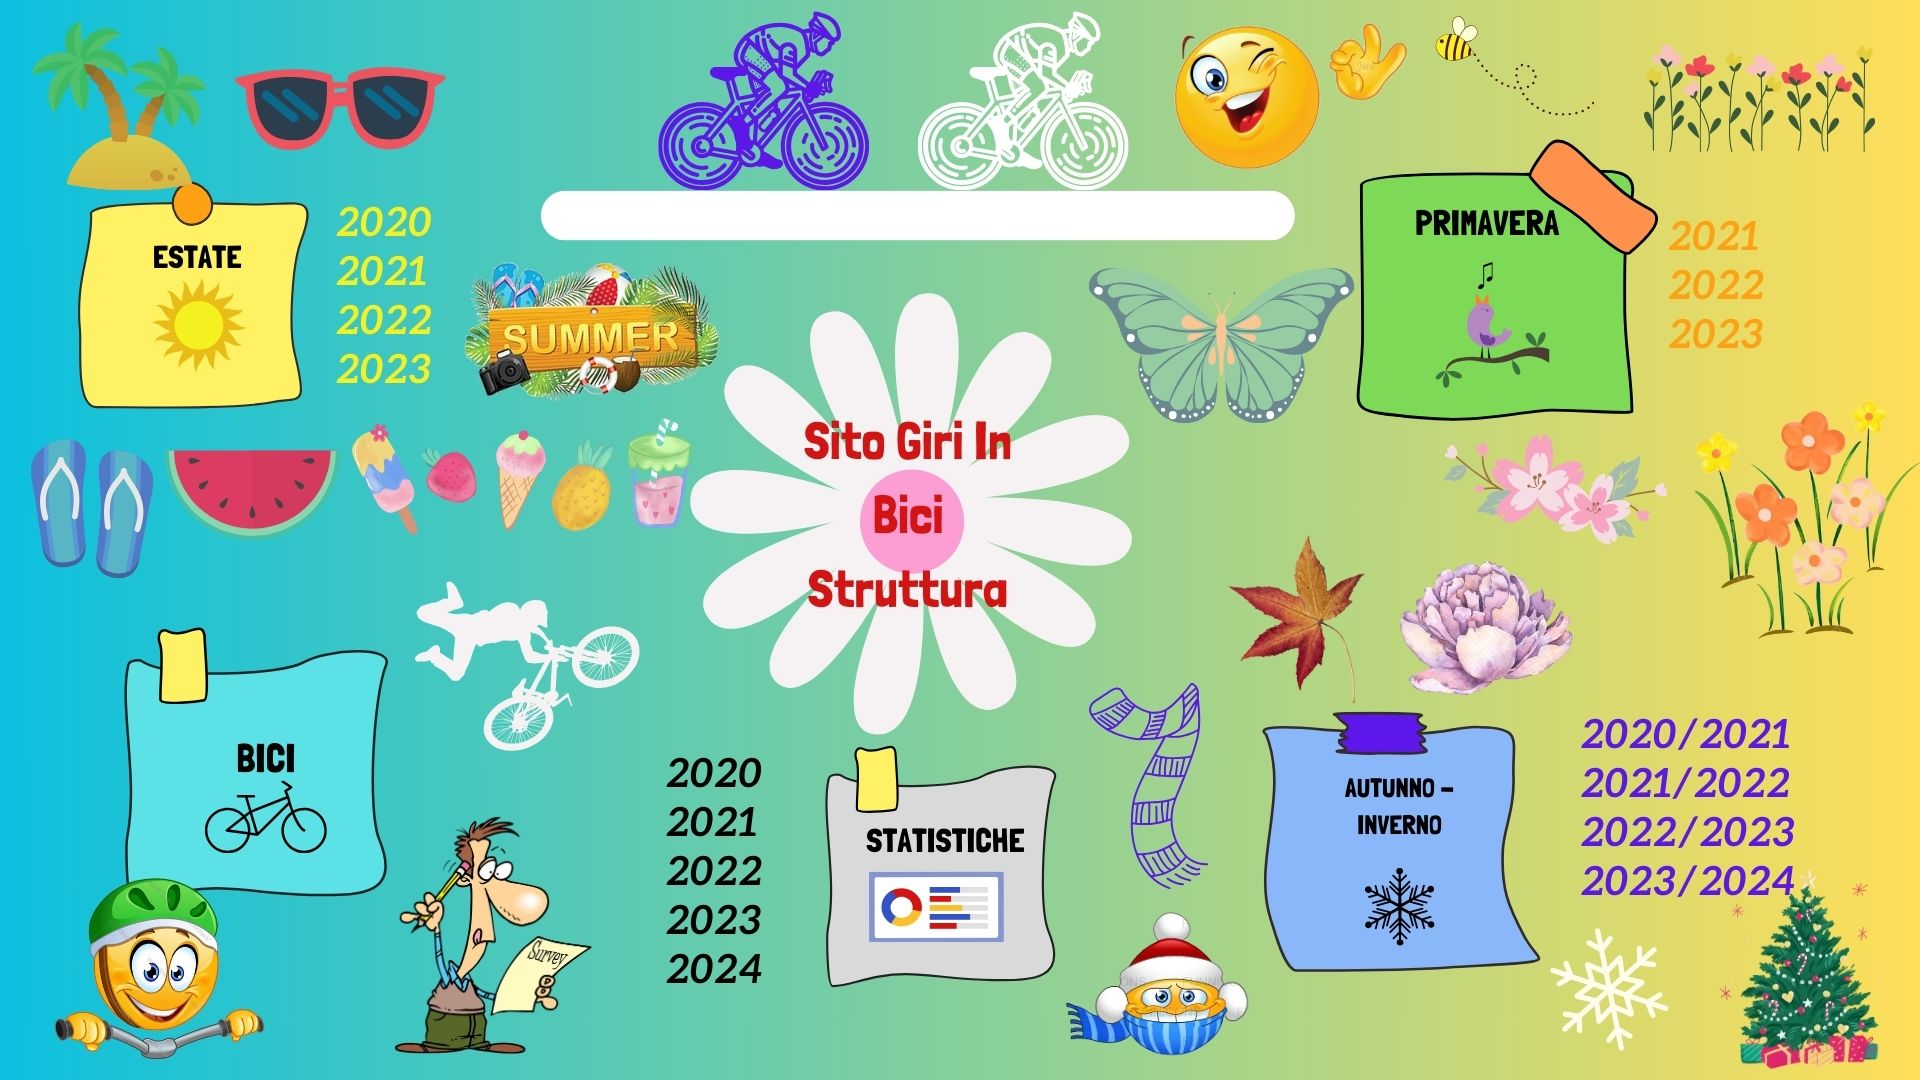
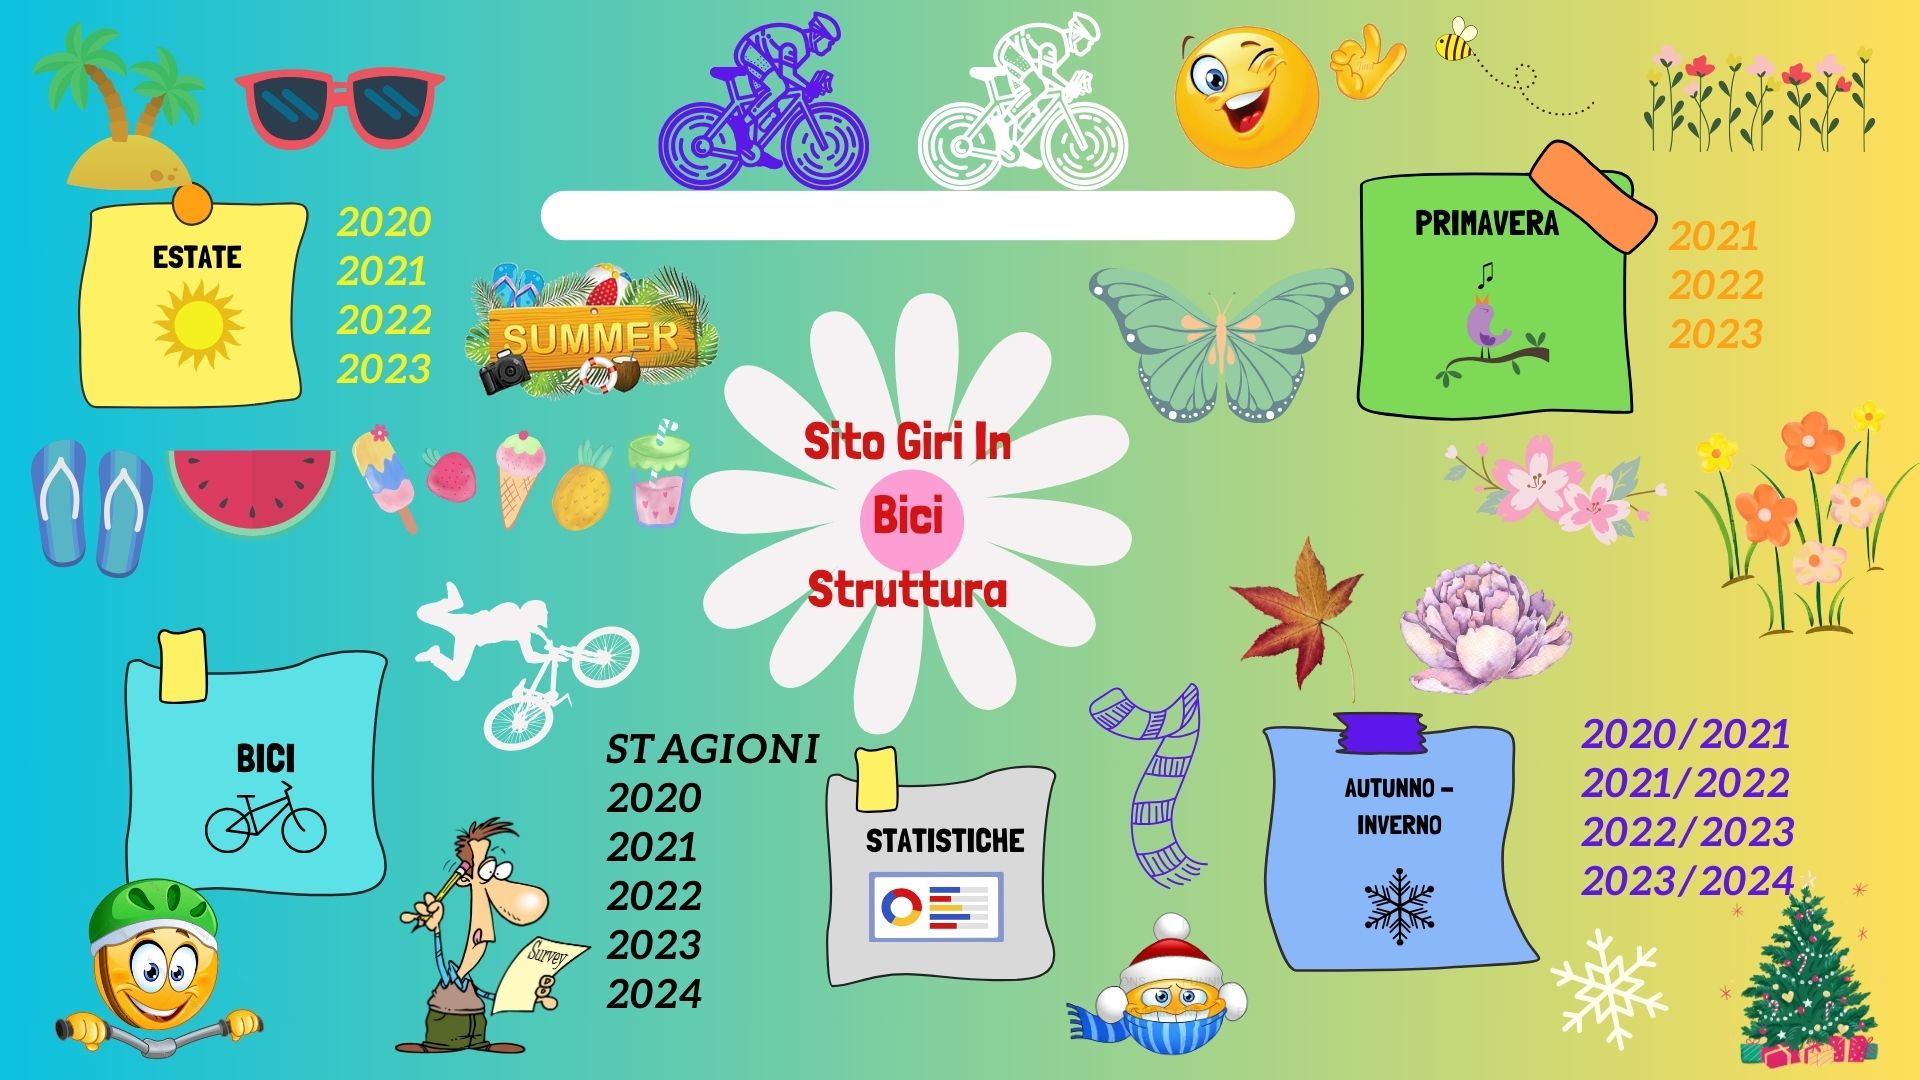
Aggiunta grafico stagioni e media per le stagioni

Changed region(s): [[0.3125, 0.6722, 0.4375, 0.9472]]

diff --git a/Statistiche/Js/stagioni.js b/Statistiche/Js/stagioni.js
@@ -1,0 +1,89 @@
+let e = 6471, p = 2206 , ai = 3798;
+let totale = e + p + ai;
+
+let avge = (e/totale) * 100;
+let avgp = (p/totale) * 100;
+let avgai = (ai/totale) * 100;
+
+let dati = {
+    labels: ['Estate','Autunno-Inverno','Primavera'],
+    datasets: [{
+        label: 'km totali stagione',
+        backgroundColor: [
+            'red',
+            'lightblue',
+            'lightgreen'
+        ],
+        borderColor: [
+            'rgba(255, 99, 132, 1)',
+            'rgba(54, 162, 235, 1)',
+            'rgba(255, 206, 86, 1)'
+        ],
+        borderWidth: 1,
+        data: [e,p,ai]  // Aggiunto un valore per il 2024, correggi se necessario
+    }]
+};
+
+// Configurazione del grafico
+let config = {
+    type: 'doughnut',
+    data: dati,
+    options: {
+        scales: {
+            y: {
+                beginAtZero: true
+            }
+        }
+    }
+};
+
+// Ottenere il contesto del canvas e creare il grafico
+let ctx = document.getElementById('doughnut-chart').getContext('2d');
+new Chart(ctx, config);
+
+let stampa = `
+
+<div class="estate">
+    <img class="immaginestagionesx" src="../Icone/estate.png">
+    <p class="contornostagione">
+        Estate
+    </p>
+
+    <p>km totali 
+        ${e} <img src="../Icone/traguardo.png">
+    </p>
+
+    <p> ${avge} % </p>
+</div>
+
+<div class="primavera">
+    <img class="immaginestagionesx" src="../Icone/primavera.png">
+    <p class="contornostagione">
+        Primavera
+    </p>
+
+    <p>km totali 
+        ${p} <img src="../Icone/traguardo.png">
+    </p>
+
+    <p> ${avgp} % </p>
+</div>
+
+<div class="autunno_inverno">
+    <img class="immaginestagionesx" src="../Icone/inverno.png">
+    <p class="contornostagione">
+        Autunno - Inverno
+    </p>
+
+    <p>km totali 
+        ${ai} <img src="../Icone/traguardo.png">
+    </p>
+
+    <p> ${avgai} % </p>
+</div>
+`;
+
+document.getElementById("dati").innerHTML = stampa;
+
+let stampat = `<div class="colore"><p>totale km ${totale} <img src="../Icone/traguardo.png"></p> </div>`;
+document.getElementById("totale").innerHTML = stampat;

diff --git a/Autunno_Inverno/Autunno-inverno.js b/Autunno_Inverno/Autunno-inverno.js
@@ -1,5 +1,5 @@
 let AI202021 = 1305,AI202122 = 729, AI202223 = 806, AI202324 = 958;
-let totale = AI202021 + AI202122 + AI202223 + AI202223;
+let totale = AI202021 + AI202122 + AI202223 + AI202324;
 
 let avg2021 = (AI202021 / totale) * 100;
 let avg2122 = (AI202122 / totale) * 100;
@@ -56,5 +56,5 @@ document.getElementById("AI2223").innerHTML = stampaAI2223;
 let stampaAI2324 = `<p>Totale km <img src="Icone/traguardo.png"> ${AI202324}</p>  <p> ${avg2324} % </p`
 document.getElementById("AI2324").innerHTML = stampaAI2324;
 
-let stampaAI = `Totale km percorsi in Autunno - Inverno ${totale} <img src="Icone/traguardo.png">`;
+let stampaAI = `Totale km percorsi in Autunno - Inverno ${totale} <img src="Icone/traguardo.png"> <p>media km per stagione ${totale/4} </p>`;
 document.getElementById("totale").innerHTML = stampaAI;

diff --git a/Statistiche/stagioni.html b/Statistiche/stagioni.html
@@ -1,0 +1,35 @@
+<!DOCTYPE html>
+<html>
+
+<head>
+    <link rel="stylesheet" href="../giri.css" />
+    <link rel="icon" href="Logo_statistiche.jpg" type="image/jpg">
+    <title> Statistiche Stagioni </title>
+
+    <script src="https://cdn.jsdelivr.net/npm/chart.js"></script>
+    <script src="Js/stagioni.js" defer></script>
+</head>
+
+<body>
+    <a href="../Giri.html">
+        <img class="Bandiera-FVG" src="../imagini Html sito principale/Logo .jpg">
+    </a>
+
+    <p>
+        <a class="colore_apertura" href="../Statistiche.html">
+            <img src="../Icone/freccia.png">
+        </a>
+    </p>
+
+    <h1 class="colore_apertura, Titolo"> Statistiche Stagioni </h1>
+
+    <p id="dati"></p>
+
+    <br>
+    <canvas id="doughnut-chart"></canvas>
+    <br>
+
+    <div id="totale"></div>
+</body>
+
+</html>

diff --git a/Primavera/Primavera.js b/Primavera/Primavera.js
@@ -50,5 +50,5 @@ document.getElementById("primavera2022").innerHTML = stampaP2022;
 let stampaP2023 = `<p>Totale km <img src="Icone/traguardo.png"> ${p2023}</p> <p> ${avg2023} % </p>`
 document.getElementById("primavera2023").innerHTML = stampaP2023;
 
-let stampaP = `Totale km percorsi in Primavera ${totale} <img src="Icone/traguardo.png">`;
+let stampaP = `Totale km percorsi in Primavera ${totale} <img src="Icone/traguardo.png"> <p>media km per stagione ${totale/3} </p>`;
 document.getElementById("totale").innerHTML = stampaP;

diff --git a/Estate/Estate.js b/Estate/Estate.js
@@ -56,5 +56,5 @@ document.getElementById("estate2022").innerHTML = stampaE2022;
 let stampaE2023 = `<p>Totale km <img src="Icone/traguardo.png"> ${e2023}</p> <p> ${avg2023} % </p>`
 document.getElementById("estate2023").innerHTML = stampaE2023;
 
-let stampaE = `Totale km percorsi in Estate ${totale} <img src="Icone/traguardo.png"> `;
+let stampaE = `Totale km percorsi in Estate ${totale} <img src="Icone/traguardo.png"> <p>media km per stagione ${totale/4} </p>`;
 document.getElementById("totale").innerHTML = stampaE;

diff --git a/Statistiche.html b/Statistiche.html
@@ -11,6 +11,11 @@
 
 <body>
 
+    <button class="graficostagioni">
+        <a href="Statistiche/stagioni.html">
+            <img class="Stagioni" src="https://i.pinimg.com/originals/df/fa/66/dffa66f0986f247746ed52aff4674cf3.jpg">
+        </a>
+    </button>
     <a href="Giri.html">
         <img class="Bandiera-FVG" src="imagini Html sito principale/Logo .jpg">
     </a>

diff --git a/Style_statistiche.css b/Style_statistiche.css
@@ -210,3 +210,21 @@ canvas
 {
     background-color: white;
 }
+
+.graficostagioni{
+    position: fixed;
+    top: 5px;
+    z-index: 10;
+    font-size: 50px;
+    color:red;
+    background-color: #00ff9d;
+    border-radius: 20px;
+    text-align: center;
+    text-shadow: 2px 2px 4px black;
+    right: 10px;
+}
+
+.Stagioni {
+    width: 150px;
+    height: 150px;
+}

diff --git a/giri.css b/giri.css
@@ -425,3 +425,15 @@ tr:hover {
 {
     right: 10px;
 } 
+
+.contornostagione
+{
+    font-size: 50px;
+    font-family: 'Dancing Script', cursive;
+    color: blue;
+}
+
+canvas
+{
+    background-color: white;
+}

diff --git a/readme.md b/readme.md
@@ -1,10 +1,19 @@
 <h1>ogni volta aggiornare </h1>
 <br>
 
-<p> Aggiornare js stagione corrispondente, statistiche anno interessato e statistiche generale, hamburger con vari km e corse</p>
+<p> HTML Pagina corrisponte alla stagioe con l'anno che mi interessa (Autunno Inverno o Primavera o Estate dell'anno interessato)
+    Autunno_Inverno2023-2024
+</p>
+
+<p> Aggiornare js 
+    <ul>
+    <li> stagione corrispondente (Autunno Inverno o Primavera o Estate) Estate.js o Autunno-inverno.js o Primavera.js</li>
+    <li> statistiche anno interessato (anno km per mese e numero corse) 2023.js</li>  
+    <li> statistiche generale (dove mettere km anno e numero corse) generaleStatistiche.js</li>  
+    <li>hamburger con vari km e corse (per pagina home) Hamburger.js</li>
+    <li> Aggiornare km stagioni (stagioni.js) stagioni.js</li>
+</ul></p>
 <br>
- 
-<p>periodo interessato -> periodoanno.html</p> 
 
 <br>
 <h1> Credenziali </h1>
